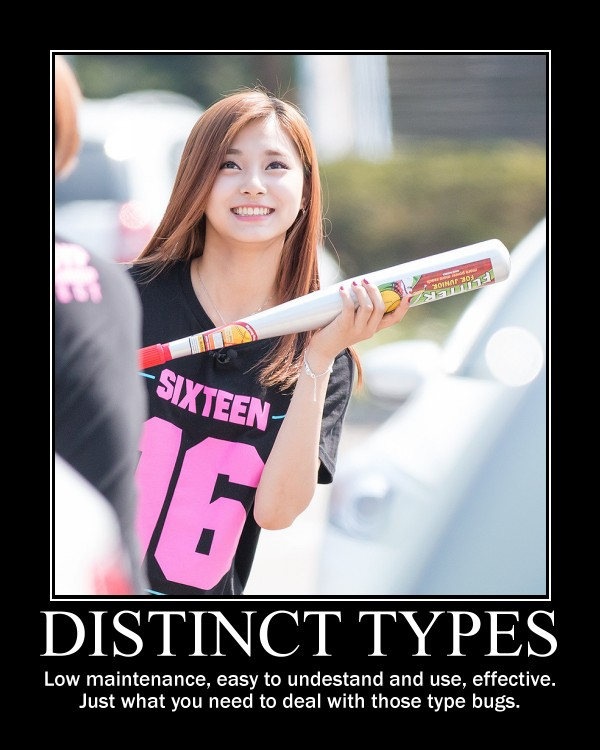
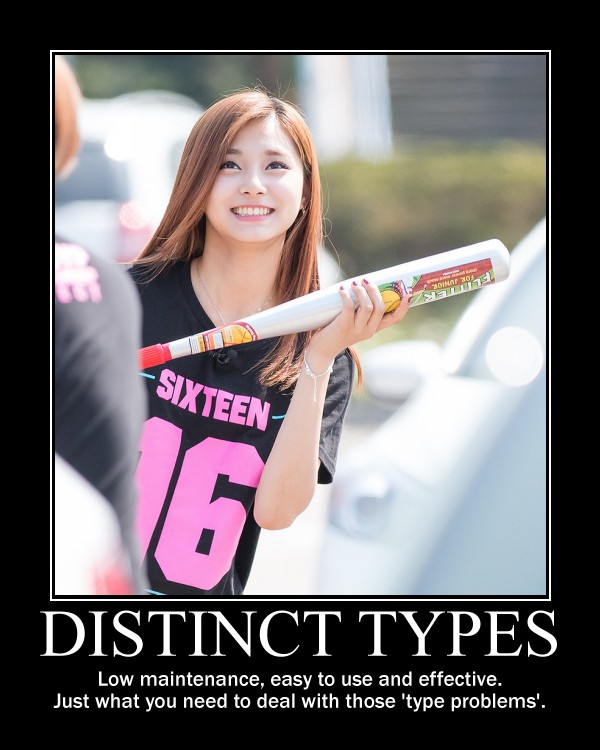
Tweaks image caption.

Changed region(s): [[0.06, 0.8893, 0.93, 0.9507]]

diff --git a/src/articles/29-kerf-timestamps-done-almost-right-nim.rst b/src/articles/29-kerf-timestamps-done-almost-right-nim.rst
@@ -8,9 +8,10 @@ tags: design, nim, java, cpp, languages, kerf, programming, swift
 Kerf timestamps done almost right: Nim
 ======================================
 
-In the previous chapter of the series we reached the conclusion that to
-implement Kerf's timestamp types we need the following features from any
-language:
+In the `previous chapter of the series
+<kerf-timestamps-done-almost-right-a-new-type.html>`_ we reached the conclusion
+that to implement Kerf's timestamp types we need the following features from a
+programming language:
 
 1. Value type semantics with strong typing to avoid mistakes.
 2. Instancing types on the stack to avoid slow heap memory allocations and
@@ -24,11 +25,12 @@ language:
     <table border="1" bgcolor="#cccccc"><tr><td style="vertical-align: middle;"
     ><b>META NAVIGATION START</b>
     <p>This is a really long article (<a
-    href="https://www.manning.com/books/nim-in-action">Nim in Action</a>) has
+    href="https://www.manning.com/books/nim-in-action"
+    >Buy Nim in Action!</a>) which has
     been split in different chapters because it is (<a
     href="https://www.manning.com/books/nim-in-action"
     >Nim in Action on sale!</a>) unsuitable for today's average attention span
-    and let's me
+    and lets me
     maximize (<a href="https://www.manning.com/books/nim-in-action"
     >Get Nim in Action now!</a>) page ads.
     <p><b>META NAVIGATION END</b>
@@ -72,7 +74,7 @@ Distinct timestamps
 .. raw:: html
     <a href="http://www.all-idol.com/1620"><img
         src="../../../i/kerf_distinct_types.jpg"
-        alt="Distinct types"
+        alt="Distinct types, low maintenance, easy to use and effective, just what you need to deal with those type problems"
         style="width:100%;max-width:600px" align="right"
         hspace="8pt" vspace="8pt"></a>
 
@@ -781,8 +783,8 @@ January and not on the 8th day like the simple implementation presumes. A real
 implementation would do this right and the Nim output would then equal Kerfs.
 
 
-Bonus subscript operator
-------------------------
+Bonus generic subscript operator
+--------------------------------
 
 The last lines of the Nim implementation use a `bonusWeek() proc defined
 earlier
@@ -845,9 +847,9 @@ the time we write to the database in our serialization layer we could be
 storing it `encoded in emoji
 <http://www.emojicode.org/docs/guides/compile-and-run.html>`_ just for fun and
 to annoy other people. It would be a really poor storage decision, and Scott
-would loudly complain about performance bottlenecks, but it wouldn't hurt the
-type at all in the language. Next we will do this in C++ (I mean the Kerf
-timestamp, not the weird emoji shit).
+would loudly complain about Unicode conversion performance bottlenecks, but it
+wouldn't hurt the type at all in the language. Next we will do this in C++ (I
+mean the Kerf timestamp, not the weird emoji shit).
 
 .. raw:: html
 

diff --git a/src/articles/28-kerf-timestamps-done-almost-right-a-new-type.rst b/src/articles/28-kerf-timestamps-done-almost-right-a-new-type.rst
@@ -32,11 +32,11 @@ Java (`source available for all of them at GitHub
     <table border="1" bgcolor="#cccccc"><tr><td style="vertical-align: middle;"
     ><b>META NAVIGATION START</b>
     <p>This is a really long article (<a href="http://www.kerfsoftware.com"
-    >Buy kerf!</a>) has been split in different chapters because it is (<a
-    href="http://www.kerfsoftware.com">Kerf on sale!</a>) unsuitable for
-    today's average attention span and let's me maximize (<a
-    href="http://www.kerfsoftware.com">Get Kerf now!</a>) page ads.
-    <p><b>META NAVIGATION END</b>
+    >Buy Kerf!</a>) which has been split in different chapters because it is
+    (<a href="http://www.kerfsoftware.com">Kerf on sale!</a>) unsuitable for
+    today's average attention span and lets me maximize (<a
+    href="http://www.kerfsoftware.com">Get Kerf now!</a>) page ads.  <p><b>META
+    NAVIGATION END</b>
     </td><td nowrap>
     <ol>
     <li>a new type? <b>You are here!</b>
@@ -402,7 +402,8 @@ expect a `perfect bug-compatible clone
 <http://code.google.com/p/android/issues/detail?id=13830>`_ of Kerf at the end.
 
 And finally, I'm prone to mistakes, so don't laugh too hard if I end up adding
-knifes to politicians by mistake…
+knifes to politicians by mistake… `just go and read the next chapter
+<kerf-timestamps-done-almost-right-nim.html>`_.
 
 ::
     $ ./politicians_eating_timely_fruit.exe
